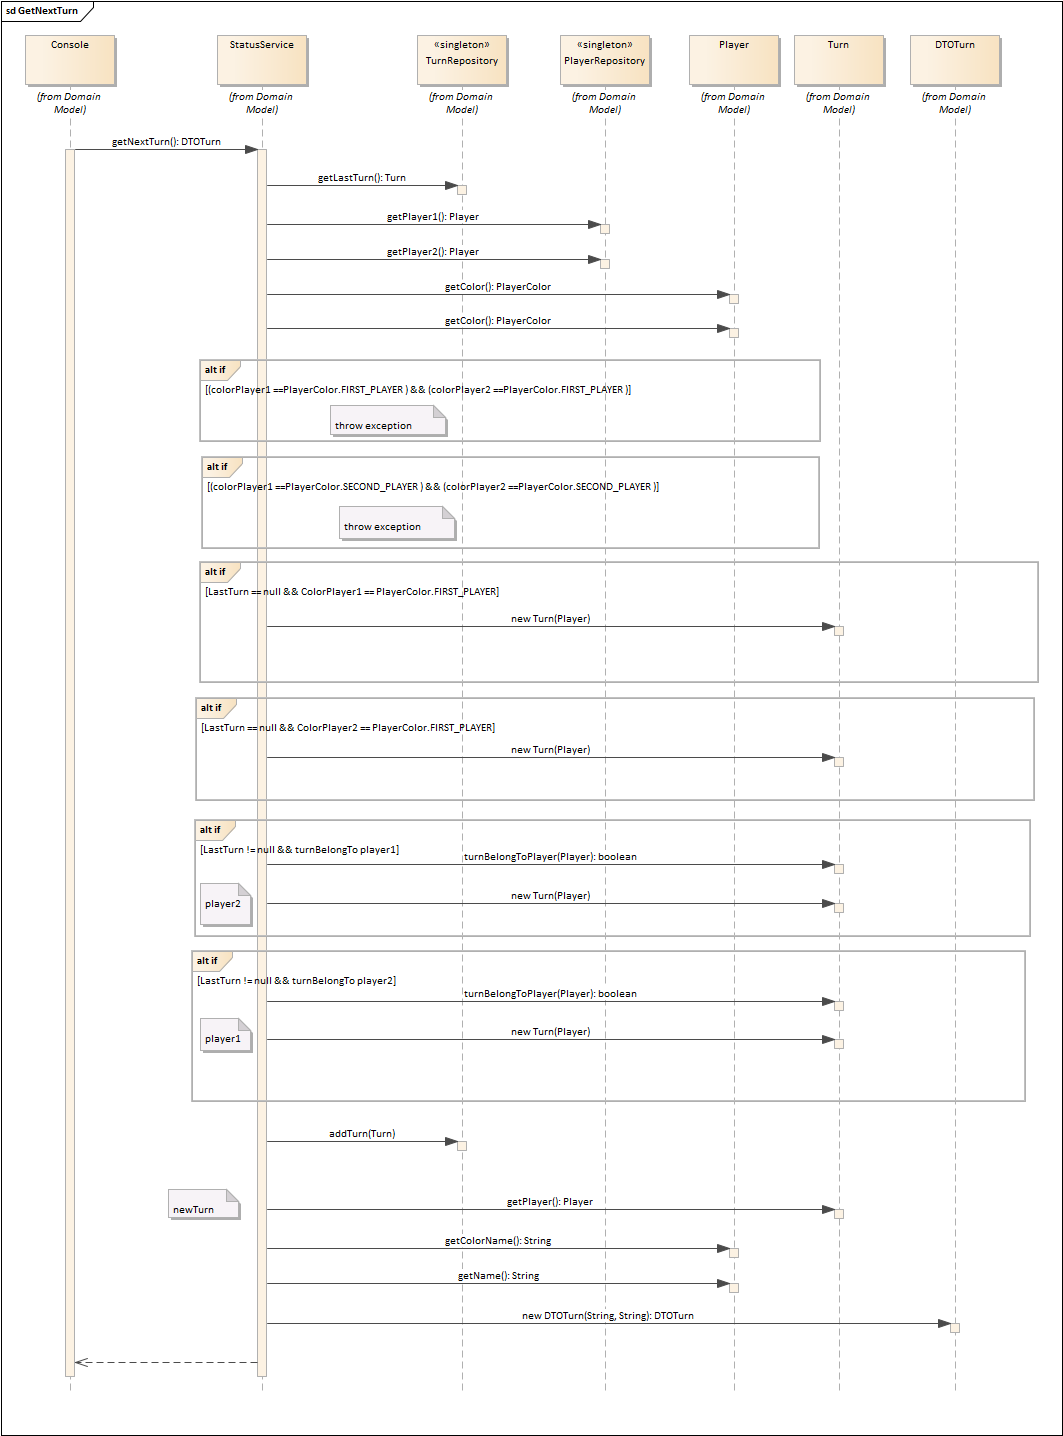
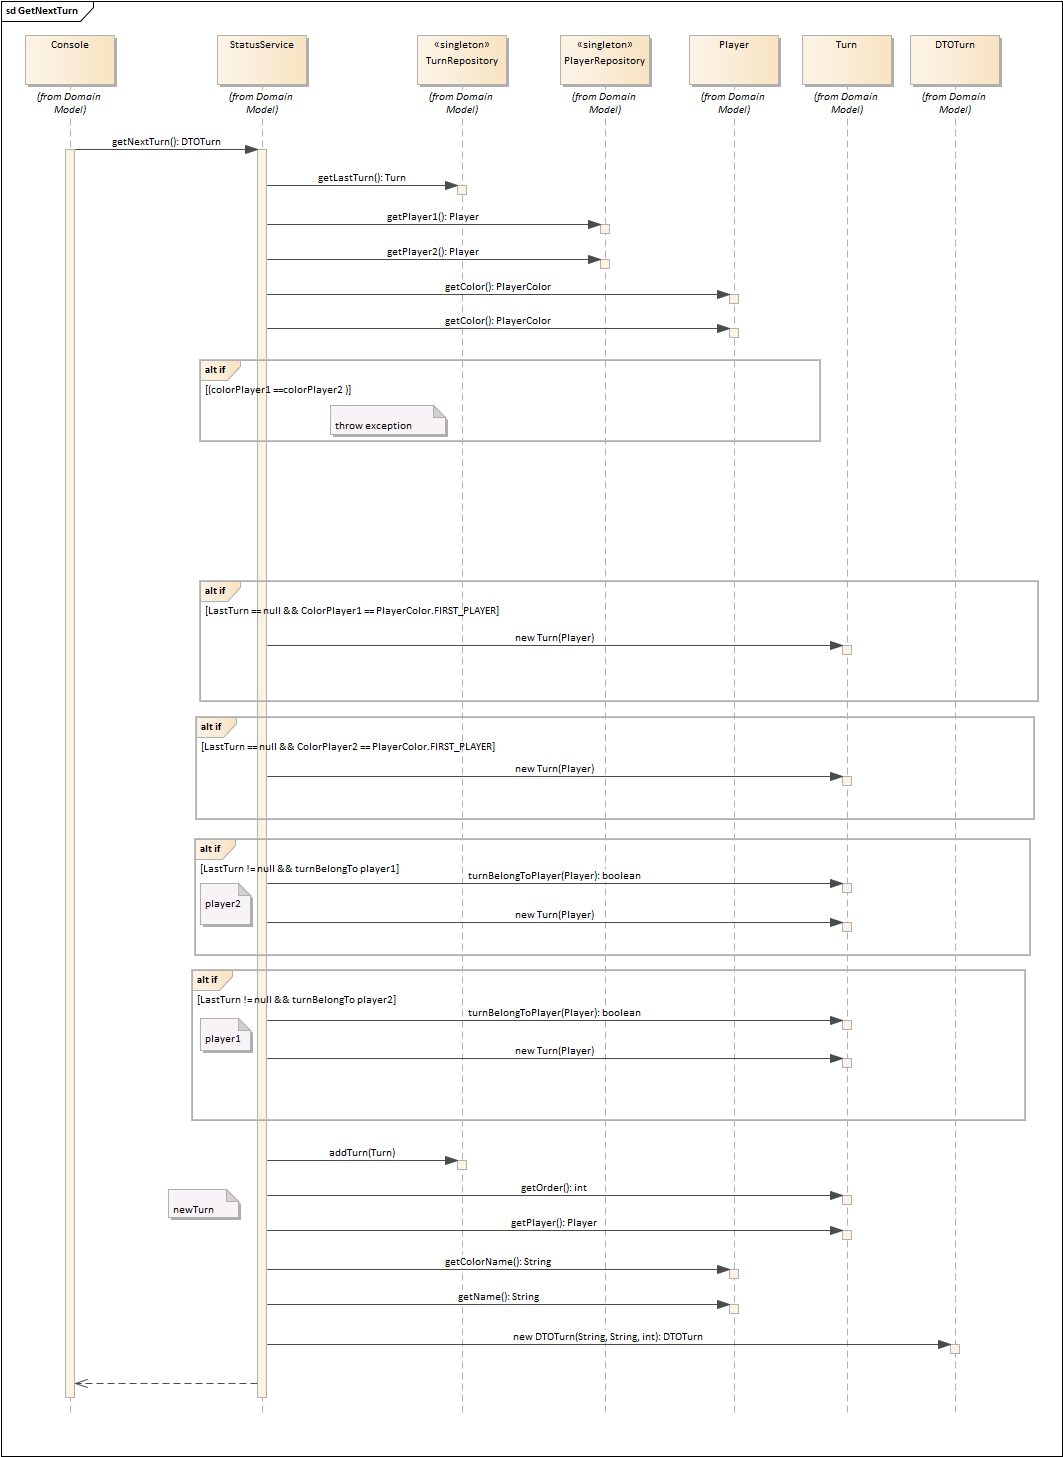
Get next turn functionality
Method to configure and  get the next turn

diff --git a/src/main/java/services/StatusService.java b/src/main/java/services/StatusService.java
@@ -2,10 +2,13 @@ package services;
 
 import dtos.*;
 import exceptions.backendExceptions.DoubleWinnerException;
+import exceptions.backendExceptions.NullTurnException;
+import exceptions.backendExceptions.SamePlayerException;
 import model.*;
 import repositories.MovementRepository;
 import repositories.PlayerRepository;
 import repositories.PositionRepository;
+import repositories.TurnRepository;
 
 import java.util.ArrayList;
 
@@ -43,7 +46,7 @@ public class StatusService {
 
         for (Player p : players) {
 
-            DTOPlayerStatus dtoPlayerStatus = new DTOPlayerStatus(p.getColorName(),p.getName(),p.getColor().getOrder());
+            DTOPlayerStatus dtoPlayerStatus = new DTOPlayerStatus(p.getColorName(),p.getName(),p.getColor().getDirection());
             ArrayList<Piece> inactivePieces = p.getInactivePieces();
             for(Piece piece : inactivePieces){
                 DTOPieceOut dtoPieceOut = new DTOPieceOut(piece.getId(),piece.getName());
@@ -97,4 +100,50 @@ public class StatusService {
 
         return dtoGameStatus;
     }
+
+    public DTOTurn getNextTurn ()throws Exception{
+
+        TurnRepository turnRepository = TurnRepository.getInstance();
+        Turn lastTurn = turnRepository.getLastTurn();
+
+        PlayerRepository playerRepository = PlayerRepository.getInstance();
+        Player player1 = playerRepository.getPlayer1();
+        Player player2 = playerRepository.getPlayer2();
+
+        if( player1.getColor().equals(player2.getColor()) ){
+            throw new SamePlayerException();
+        }
+
+        Turn nextTurn =null;
+        if(lastTurn == null && player1.getColor().equals(PlayerColor.COLOR_FIRST_PLAYER)){
+            nextTurn = new Turn(player1);
+        }
+
+        if(lastTurn == null && player2.getColor().equals(PlayerColor.COLOR_FIRST_PLAYER)){
+            nextTurn = new Turn(player2);
+        }
+
+        if(lastTurn != null && lastTurn.turnBelongTo(player1)){
+            nextTurn = new Turn(player2);
+        }
+
+        if(lastTurn != null && lastTurn.turnBelongTo(player2)){
+            nextTurn = new Turn(player1);
+        }
+
+        if(nextTurn == null){
+            throw new NullTurnException();
+        }
+
+        turnRepository.addTurn(nextTurn);
+
+        Player nextPlayer = nextTurn.getPlayer();
+
+        DTOTurn dto = new DTOTurn(nextPlayer.getColorName(),nextPlayer.getName(),nextPlayer.getColor().getDirection(),nextTurn.getOrder());
+
+        return dto;
+
+    }
+
+
 }

diff --git a/src/main/java/dtos/DTOPlayerStatus.java b/src/main/java/dtos/DTOPlayerStatus.java
@@ -6,13 +6,13 @@ public class DTOPlayerStatus {
 
     private String color;
     private String name;
-    private int order;
+    private String direction;
     private ArrayList<DTOPieceOut> piecesOut = new ArrayList<>();
 
-    public DTOPlayerStatus(String color, String name, int order) {
+    public DTOPlayerStatus(String color, String name,String direction) {
         this.color = color;
         this.name = name;
-        this.order = order;
+        this.direction = direction;
     }
 
     public void addPieceOut(DTOPieceOut dto){
@@ -20,13 +20,12 @@ public class DTOPlayerStatus {
     }
 
     public String getColor() {
-        if(order == 1){
-            color = color + " V";
-        }
-        if(order == 2){
-            color = color + " Λ";
-        }
+
         return color;
+    }
+
+    public String getDirection() {
+        return direction;
     }
 
     public String getName() {
@@ -53,6 +52,6 @@ public class DTOPlayerStatus {
 
     @Override
     public String toString() {
-        return getName() + " ("+getColor()+") pieces to insert:";
+        return getName() + " ("+getColor()+" "+getDirection() +") pieces to insert:";
     }
 }

diff --git a/src/main/java/model/Turn.java b/src/main/java/model/Turn.java
@@ -1,5 +1,7 @@
 package model;
 
+import exceptions.backendExceptions.NullPlayerException;
+
 public class Turn {
 
     private static Integer lastOrder;
@@ -7,11 +9,37 @@ public class Turn {
     private Movement movement;
     private Player player;
 
+
+    public Turn(Player p) throws Exception{
+
+        if(p.equals(null)){
+            throw new NullPlayerException();
+        }
+        player = p;
+        if (lastOrder == null){
+            lastOrder=0;
+        }
+        lastOrder++;
+        order = lastOrder;
+    }
+
     public int getOrder() {
         return order;
     }
 
+    public Player getPlayer() {
+        return player;
+    }
+
     public String getPlayerName(){
         return player.getName();
+    }
+
+    public boolean turnBelongTo(Player player){
+        if(this.player.equals(player)){
+            return true;
+        }else{
+            return false;
+        }
     }
 }

diff --git a/src/main/java/model/PlayerColor.java b/src/main/java/model/PlayerColor.java
@@ -2,16 +2,18 @@ package model;
 
 public enum PlayerColor {
 
-    COLOR_FIRST_PLAYER(1,"White",6),
-    COLOR_SECOND_PLAYER(2,"Black",2);
+    COLOR_FIRST_PLAYER(1,"White", "V",6),
+    COLOR_SECOND_PLAYER(2,"Black", "Λ",2);
 
     private final int order;
     private final String color;
+    private final String direction;
     private final int minimumRowToPromote;
 
-    private PlayerColor(int order, String color, int minimumRowToPromote) {
+    private PlayerColor(int order, String color,String direction, int minimumRowToPromote) {
         this.order = order;
         this.color = color;
+        this.direction= direction;
         this.minimumRowToPromote = minimumRowToPromote;
     }
 
@@ -25,5 +27,9 @@ public enum PlayerColor {
 
     public int getMinimumRowToPromote() {
         return minimumRowToPromote;
+    }
+
+    public String getDirection() {
+        return direction;
     }
 }

diff --git a/src/main/java/repositories/TurnRepository.java b/src/main/java/repositories/TurnRepository.java
@@ -1,4 +1,38 @@
 package repositories;
 
+import model.Turn;
+
+import java.util.ArrayList;
+
 public class TurnRepository {
+
+    private ArrayList<Turn> turns = new ArrayList<>();
+
+    private static TurnRepository instance;
+
+
+    private TurnRepository (){}
+
+    public static TurnRepository getInstance(){
+
+        if(instance == null){
+            instance = new TurnRepository();
+        }
+
+        return instance;
+    }
+
+    public Turn getLastTurn(){
+        if(turns.size() == 0){
+            return null;
+        }
+
+        int index = turns.size() - 1 ;
+
+        return turns.get(index);
+    }
+
+    public void addTurn(Turn turn){
+        turns.add(turn);
+    }
 }

diff --git a/src/main/java/exceptions/backendExceptions/NullTurnException.java b/src/main/java/exceptions/backendExceptions/NullTurnException.java
@@ -2,18 +2,18 @@ package exceptions.backendExceptions;
 
 import exceptions.BackendException;
 
-public class NoPlayerException extends BackendException {
+public class NullTurnException extends BackendException {
 
-    public NoPlayerException(){
+    public NullTurnException(){
         super();
     }
 
-    public NoPlayerException(String detail){
+    public NullTurnException(String detail){
         super(detail);
     }
 
     @Override
     protected String getDefaultDescription() {
-        return "Un jugador no fue creado";
+        return "null turn created";
     }
 }

diff --git a/src/main/java/dtos/DTOTurn.java b/src/main/java/dtos/DTOTurn.java
@@ -1,4 +1,21 @@
 package dtos;
 
 public class DTOTurn {
+
+    private String playerColor;
+    private String playerName;
+    private String direction;
+    private int order;
+
+    public DTOTurn(String playerColor, String playerName,String direction, int order) {
+        this.playerColor = playerColor;
+        this.playerName = playerName;
+        this.order = order;
+        this.direction = direction;
+    }
+
+    @Override
+    public String toString() {
+        return "#"+order+" "+playerName + " ("+playerColor+" "+direction+")";
+    }
 }

diff --git a/src/main/java/services/factories/PieceFactory.java b/src/main/java/services/factories/PieceFactory.java
@@ -1,6 +1,6 @@
 package services.factories;
 
-import exceptions.backendExceptions.NoPlayerException;
+import exceptions.backendExceptions.NullPlayerException;
 import model.*;
 
 public class PieceFactory {
@@ -44,7 +44,7 @@ public class PieceFactory {
         }else if(initPiecePosition[row][column].getPlayerColor() == null){
             piece = null;
         }else {
-            throw new NoPlayerException();
+            throw new NullPlayerException();
         }
 
         return piece;

diff --git a/src/main/java/frontend/Console.java b/src/main/java/frontend/Console.java
@@ -17,6 +17,7 @@ public class Console {
 
         initializeGame();
         checkGameStatus();
+        nextTurn();
 
     }
 
@@ -95,6 +96,16 @@ public class Console {
 
         }
 
+    }
+
+    private static void nextTurn() throws Exception{
+
+
+        StatusService statusService = new StatusService();
+
+        DTOTurn dto = statusService.getNextTurn();
+
+        System.out.println(Text.TURN_TEXT + dto.toString() + Text.TURN_TEXT2);
     }
 
 

diff --git a/src/main/java/exceptions/backendExceptions/NullPlayerException.java b/src/main/java/exceptions/backendExceptions/NullPlayerException.java
@@ -1,0 +1,19 @@
+package exceptions.backendExceptions;
+
+import exceptions.BackendException;
+
+public class NullPlayerException extends BackendException {
+
+    public NullPlayerException(){
+        super();
+    }
+
+    public NullPlayerException(String detail){
+        super(detail);
+    }
+
+    @Override
+    protected String getDefaultDescription() {
+        return "Un jugador no fue creado";
+    }
+}

diff --git a/src/main/java/frontend/Text.java b/src/main/java/frontend/Text.java
@@ -7,4 +7,7 @@ public class Text {
     public static final String NAME_TEXT = " name ";
     public static final String RESTART_MESSAGE = "Restarting game...";
     public static final String WINNER_TEXT= "Game Over, THE WINNER IS: ";
+    public static final String TURN_TEXT= "=================Turn: ";
+    public static final String TURN_TEXT2= "===================== ";
+
 }

diff --git a/src/main/java/repositories/PositionRepository.java b/src/main/java/repositories/PositionRepository.java
@@ -5,8 +5,9 @@ import model.Settings;
 
 public class PositionRepository {
 
-    private static PositionRepository instance;
     private static Position positions[][] = new Position[Settings.ROWS][Settings.COLUMNS];
+    private static PositionRepository instance;
+
 
     private PositionRepository(){}
 
